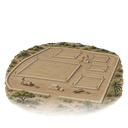
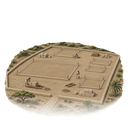
Royal Tomb stage 1 repainted: the footing traces the finished wall's square corners
Claude-Session: https://claude.ai/code/session_01YXxZpkGzC2UDbRLxUvsdzp

diff --git a/app/src/assets/PROVENANCE.md b/app/src/assets/PROVENANCE.md
@@ -15,7 +15,7 @@ The date range is the range of dates the repository's own records give (prompt h
 | Unit miniatures | `app/src/assets/units/` | Generated on a flat magenta field, keyed to alpha, resized (`-source`, archived outside git, `-256`, `-64`, `-48`, card and panel crops). A reference miniature from the same set was attached to each request for style. Roundels (`*-roundel.svg`) are code | Yes for most: beside the file or in `units/prompts/`. None for the top-down aircraft plan sprites in `units/air/` | 2026-11-01 to 2026-11-25 |
 | Siege props | `app/src/assets/siege-props/` | Generated, keyed, resized | Yes, beside each source | Not recorded |
 | City miniatures | `app/src/assets/cities/` | Generated as sets, cut out and resized | Set prompts: some beside the files, the rest in `docs/design/city-art/prompts/` | 2026-10-10 to 2026-11-16 |
-| Construction stages (wonders and landmarks) | `app/src/assets/construction/` | Generated master on magenta, then each stage an image edit of that master; keyed and aligned by `tools/art/wonder-art.py` and `tools/art/landmark-atlas-edit.py` (Egypt's Royal Tomb `goal-royaltomb-stage*`, 2026-11-25, then muted by `tools/art/goal-landmark-grade.py`) | Yes for most, beside the full-size images | 2026-10-24 to 2026-11-22 |
+| Construction stages (wonders and landmarks) | `app/src/assets/construction/` | Generated master on magenta, then each stage an image edit of that master; keyed and aligned by `tools/art/wonder-art.py` and `tools/art/landmark-atlas-edit.py` (Egypt's Royal Tomb `goal-royaltomb-stage*`, 2026-11-25, then muted by `tools/art/goal-landmark-grade.py`; stage 1 repainted the same day with square footing corners) | Yes for most, beside the full-size images | 2026-10-24 to 2026-11-22 |
 | Era illustrations | `app/src/assets/eras/` | Generated 1920 × 1080 masters; 1280 × 720 and 720 × 1280 crops | Yes, beside each master | 2026-11-16 |
 | Unlock art (buildings, improvements, effects on tech cards, city projects) | `app/src/assets/unlocks/` | Generated, keyed, resized | Partly: a few beside the files, the rest in `docs/design/unlock-art/` (`buildings.md`, `buildings-2.md`, `tiles-effects.md`, `masters/`) | 2026-10-11 to 2026-11-22 |
 | Landmark map copies | `app/src/assets/landmarks/` | The world wonders' and Great Works' unlock paintings as graded for the map (`tools/art/landmark-atlas-edit.py`, `wonder-art.py`); the card copies in `unlocks/` have that grade undone by `tools/art/card-grade.py` | As for unlock art | 2026-11-01; split 2026-11-22 |
